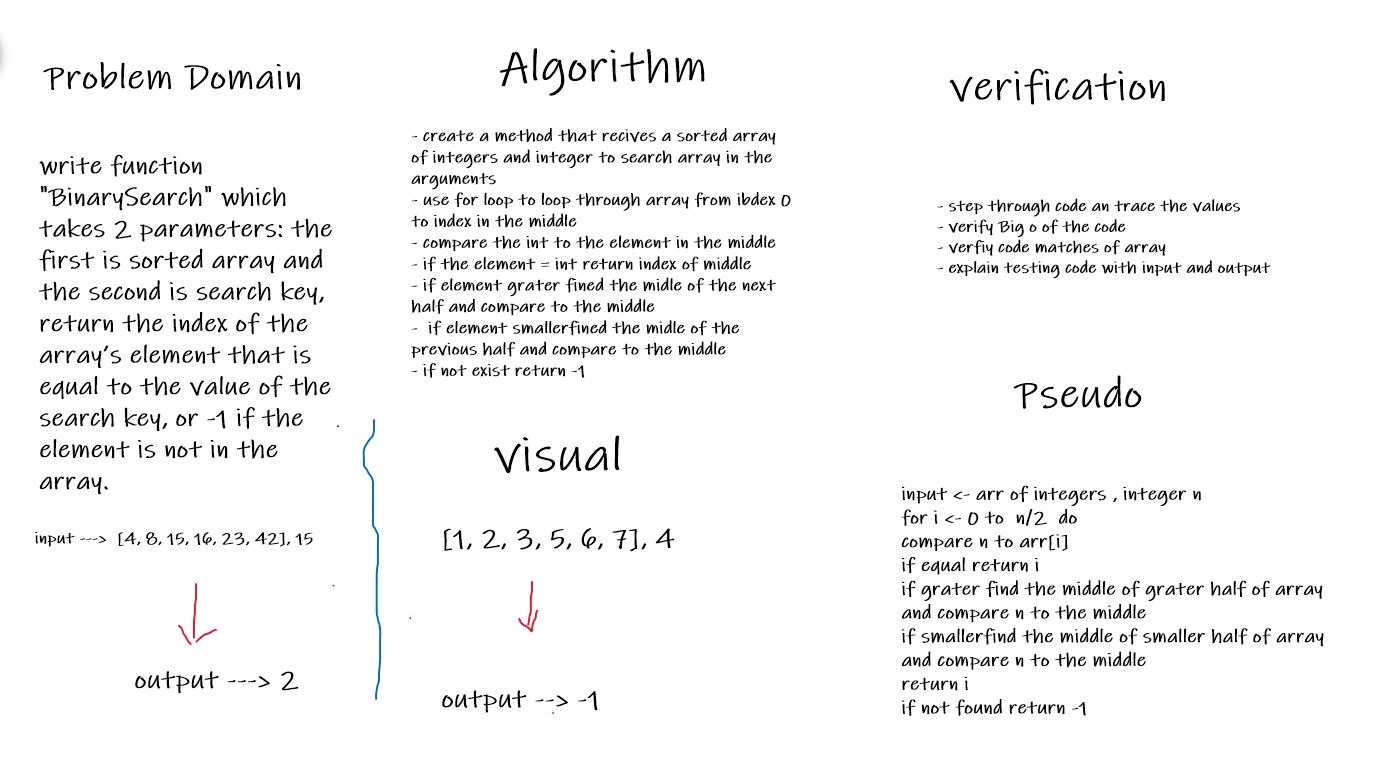
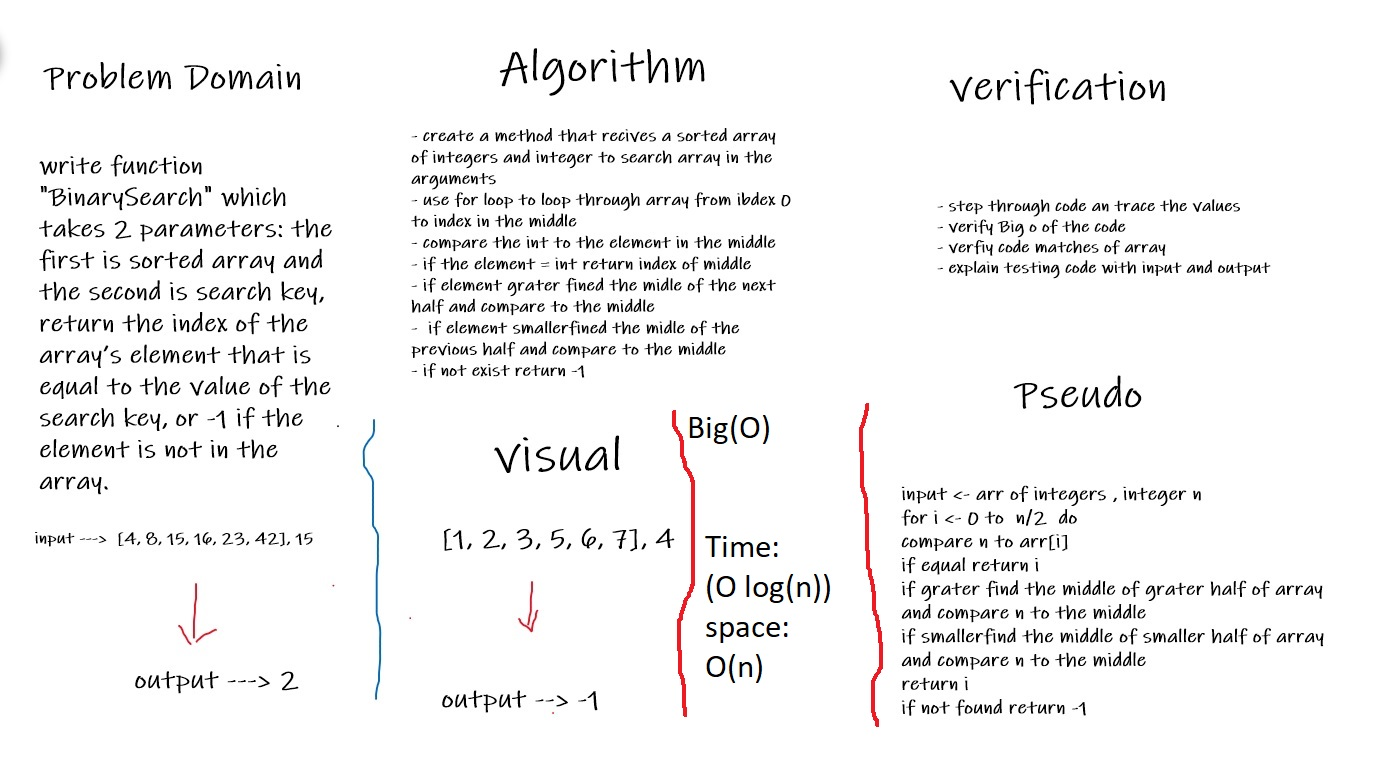
big o add

diff --git a/README.md b/README.md
@@ -3,11 +3,8 @@
 
 
 |Code         |Title                                    | Link                                            |
-|:---         | ---:                                    | :---:                                           |
+|:---         | :---                                    | :---:                                           |
 |code01       | Reverse Array                           |[Link](./arrayrev/ChallengeREADME.md)            |
-|code01       | Array Insertion Shift                   |[Link](./array-insert-shift/ChallengeReadne2.md) |
-|code01       | Binary Search Array                     |[Link](./binarySearch/ChallengeReadme.md)        |
-
-
-
+|code02       | Array Insertion Shift                   |[Link](./array-insert-shift/ChallengeReadne2.md) |
+|code03       | Binary Search Array                     |[Link](./binarySearch/ChallengeReadme.md)        |
 
